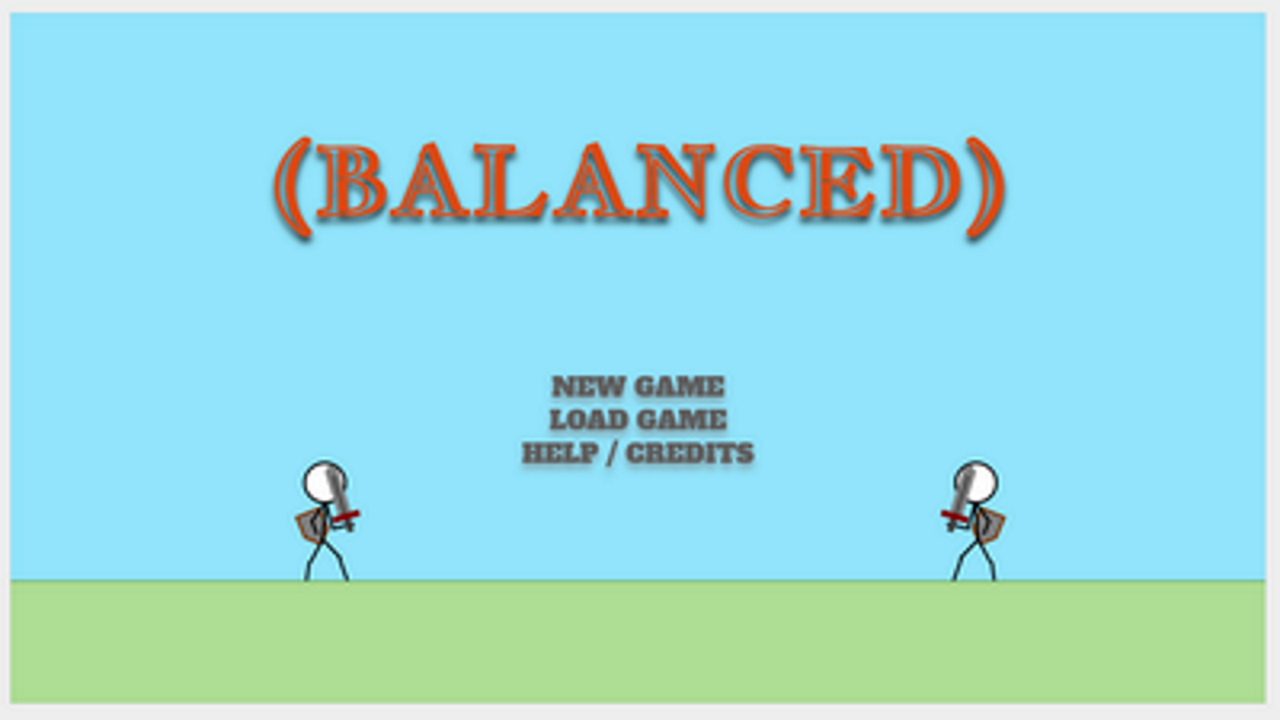
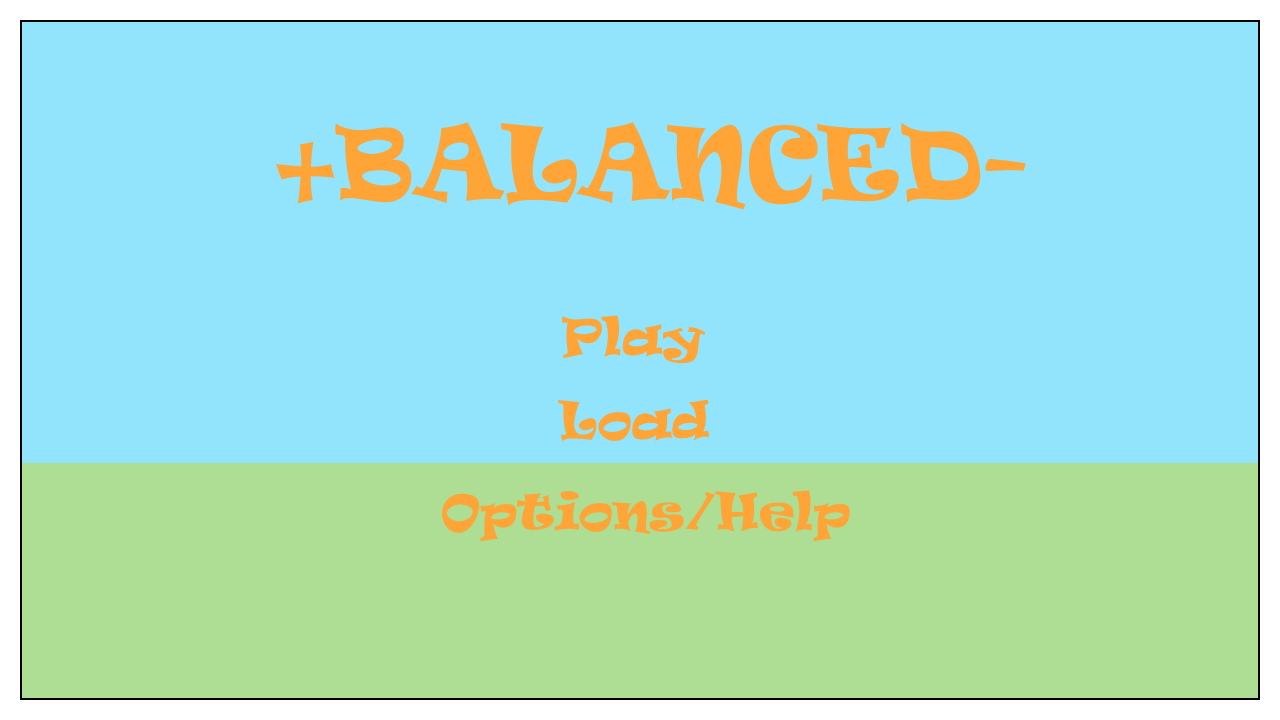
Finished up on some more of the main menu, added the buttons and made them clickable.

Changed region(s): [[0.0, 0.0, 1.0, 0.9778], [0.1875, 0.1528, 0.8125, 0.3361]]

diff --git a/Balanced/Balanced/assets/scripts/gui/MainMenuGraphics.ts b/Balanced/Balanced/assets/scripts/gui/MainMenuGraphics.ts
@@ -3,22 +3,18 @@
 
         private backgroundImage: Phaser.Sprite
 
-        private playButton: Phaser.Sprite
-        private loadButton: Phaser.Sprite
-        private optionsHelpButton: Phaser.Sprite
+        private playButton: Phaser.Button
+        private loadButton: Phaser.Button
+        private optionsHelpButton: Phaser.Button
+        private gsm: States.GameStateManager;
 
         constructor(group: Phaser.Group) {
             super(200, group);
         }
 
         public initialize(gsm: States.GameStateManager): void {
+            this.gsm = gsm;
             this.backgroundImage = gsm.game.add.sprite(0, 0, 'mmBackground');
-
-            this.playButton = gsm.game.add.sprite(556, 313, 'mmPlayButton');
-            this.loadButton = gsm.game.add.sprite(556, 398, 'mmLoadButton');
-            this.optionsHelpButton = gsm.game.add.sprite(436, 484, 'mmOptionsHelpButton');
-
-
 
             this.group.add(this.backgroundImage);
         }
@@ -27,16 +23,19 @@
             return this.backgroundImage;
         }
 
-        public getPlayButton(): Phaser.Sprite {
-            return this.playButton;
+        public getPlayButton(func: any): void {
+            this.playButton = this.gsm.game.add.button(556, 313, 'mmPlayButton', func);
+            //return this.playButton;
         }
 
-        public getLoadButton(): Phaser.Sprite {
-            return this.loadButton;
+        public getLoadButton(func: any): void {
+            this.loadButton = this.gsm.game.add.button(556, 398, 'mmLoadButton', func);
+            //return this.loadButton;
         }
 
-        public getOptionsHelpButton(): Phaser.Sprite {
-            return this.optionsHelpButton;
+        public getOptionsHelpButton(func: any): void {
+            this.optionsHelpButton = this.gsm.game.add.button(436, 484, 'mmOptionsHelpButton', func);
+            //return this.optionsHelpButton;
         }
     }
 }

diff --git a/Balanced/Balanced/assets/scripts/gui/MainMenuGraphics.js b/Balanced/Balanced/assets/scripts/gui/MainMenuGraphics.js
@@ -16,23 +16,24 @@ var GUI;
             return _super.call(this, 200, group) || this;
         }
         MainMenuGraphics.prototype.initialize = function (gsm) {
+            this.gsm = gsm;
             this.backgroundImage = gsm.game.add.sprite(0, 0, 'mmBackground');
-            this.playButton = gsm.game.add.sprite(556, 313, 'mmPlayButton');
-            this.loadButton = gsm.game.add.sprite(556, 398, 'mmLoadButton');
-            this.optionsHelpButton = gsm.game.add.sprite(436, 484, 'mmOptionsHelpButton');
             this.group.add(this.backgroundImage);
         };
         MainMenuGraphics.prototype.getBackgroundImage = function () {
             return this.backgroundImage;
         };
-        MainMenuGraphics.prototype.getPlayButton = function () {
-            return this.playButton;
+        MainMenuGraphics.prototype.getPlayButton = function (func) {
+            this.playButton = this.gsm.game.add.button(556, 313, 'mmPlayButton', func);
+            //return this.playButton;
         };
-        MainMenuGraphics.prototype.getLoadButton = function () {
-            return this.loadButton;
+        MainMenuGraphics.prototype.getLoadButton = function (func) {
+            this.loadButton = this.gsm.game.add.button(556, 398, 'mmLoadButton', func);
+            //return this.loadButton;
         };
-        MainMenuGraphics.prototype.getOptionsHelpButton = function () {
-            return this.optionsHelpButton;
+        MainMenuGraphics.prototype.getOptionsHelpButton = function (func) {
+            this.optionsHelpButton = this.gsm.game.add.button(436, 484, 'mmOptionsHelpButton', func);
+            //return this.optionsHelpButton;
         };
         return MainMenuGraphics;
     }(GUI.GameObject));

diff --git a/Balanced/Balanced/assets/scripts/Boot.js b/Balanced/Balanced/assets/scripts/Boot.js
@@ -13,13 +13,14 @@ var BalancedGame = (function () {
         //center game
         this.game.scale.pageAlignHorizontally = true;
         this.game.scale.pageAlignVertically = true;
+        this.game.scale.refresh();
         var rem = new UTIL.ResourceManager();
         //PUT ALL RESOURCES YOU NEED LOADED DOWN HERE
         rem.addResource(new UTIL.Resource('logo2', 'assets/res/phaser2.jpg', UTIL.TESTLOGO_ID), true, function (e) {
             this.game.load.image(e.key, e.assetUrl);
         }, this);
         // MAIN MENU RESOURCES
-        rem.addResource(new UTIL.Resource('mmBackground', 'assets/res/mmBackground_w.o_buttons.jpg', UTIL.MM_BACKGROUND_ID), true, function (e) {
+        rem.addResource(new UTIL.Resource('mmBackground', 'assets/res/mmBackground.png', UTIL.MM_BACKGROUND_ID), true, function (e) {
             this.game.load.image(e.key, e.assetUrl);
         }, this);
         // play button
@@ -37,7 +38,6 @@ var BalancedGame = (function () {
         // END MAIN MENU
     };
     BalancedGame.prototype.create = function () {
-        this.game.scale.refresh();
         this.gsm = new States.GameStateManager(this.game);
         // START STATES
         States.TEST_STATE = new States.TestState(this.gsm);

diff --git a/Balanced/Balanced/assets/scripts/States/MainMenuState.ts b/Balanced/Balanced/assets/scripts/States/MainMenuState.ts
@@ -23,13 +23,30 @@
         public init(): void {
             var group = this.gsm.game.add.group();
             this.mainMenu = new GUI.MainMenuGraphics(group);
+
             this.gsm.getGUIM().addGroup(this.mainMenu);
         }
 
         public startup(): boolean {
             console.log("Main Menu Started.");
 
-                   
+            // THIS WORKS
+            
+            this.mainMenu.getPlayButton(function () {
+                console.log('play button was pressed');
+            });
+
+            this.mainMenu.getLoadButton(function () {
+                console.log('load button was pressed');
+            });
+
+            this.mainMenu.getOptionsHelpButton(function () {
+                console.log('options/help button was pressed');
+            });
+
+            // THIS DOES NOT WORK
+            //this.mainMenu.getPlayButton(this.playButtonPressed());
+
             return true;
         }
 
@@ -41,7 +58,7 @@
         public getType(): any {
             return this;
         }
-
+              
         private playButtonPressed(): any {
             console.log('play button was pressed');
         }

diff --git a/Balanced/Balanced/assets/scripts/Boot.ts b/Balanced/Balanced/assets/scripts/Boot.ts
@@ -19,7 +19,8 @@ class BalancedGame {
         //center game
         this.game.scale.pageAlignHorizontally = true;
         this.game.scale.pageAlignVertically = true;
-       
+        this.game.scale.refresh();
+
         var rem = new UTIL.ResourceManager();
 
         //PUT ALL RESOURCES YOU NEED LOADED DOWN HERE
@@ -28,7 +29,7 @@ class BalancedGame {
         }, this);
 
         // MAIN MENU RESOURCES
-        rem.addResource(new UTIL.Resource('mmBackground', 'assets/res/mmBackground_w.o_buttons.jpg', UTIL.MM_BACKGROUND_ID), true, function (e) {
+        rem.addResource(new UTIL.Resource('mmBackground', 'assets/res/mmBackground.png', UTIL.MM_BACKGROUND_ID), true, function (e) {
             this.game.load.image(e.key, e.assetUrl);
         }, this);
 
@@ -50,9 +51,7 @@ class BalancedGame {
         
     }
 
-    create() {
-        this.game.scale.refresh();
-
+    create() {        
         this.gsm = new States.GameStateManager(this.game);
         // START STATES
         States.TEST_STATE = new States.TestState(this.gsm);

diff --git a/Balanced/Balanced/assets/scripts/States/MainMenuState.js b/Balanced/Balanced/assets/scripts/States/MainMenuState.js
@@ -29,6 +29,18 @@ var States;
         };
         MainMenuState.prototype.startup = function () {
             console.log("Main Menu Started.");
+            // THIS WORKS
+            this.mainMenu.getPlayButton(function () {
+                console.log('play button was pressed');
+            });
+            this.mainMenu.getLoadButton(function () {
+                console.log('load button was pressed');
+            });
+            this.mainMenu.getOptionsHelpButton(function () {
+                console.log('options/help button was pressed');
+            });
+            // THIS DOES NOT WORK
+            //this.mainMenu.getPlayButton(this.playButtonPressed());
             return true;
         };
         MainMenuState.prototype.end = function () {

diff --git a/Balanced/Balanced/assets/scripts/util/ResourceList.js b/Balanced/Balanced/assets/scripts/util/ResourceList.js
@@ -4,6 +4,7 @@ UTIL.TESTLOGO_ID = 0;
 //FRANCOIS START AT 100
 //EMERSON START AT 200
 UTIL.MM_BACKGROUND_ID = 200;
-UTIL.MM_LOADBUTTON_ID = 201;
-UTIL.MM_OPTIONSHELPBUTTON_ID = 202;
+UTIL.MM_PLAYBUTTON_ID = 201;
+UTIL.MM_LOADBUTTON_ID = 202;
+UTIL.MM_OPTIONSHELPBUTTON_ID = 203;
 //# sourceMappingURL=ResourceList.js.map

diff --git a/Balanced/Balanced/assets/scripts/util/ResourceList.ts b/Balanced/Balanced/assets/scripts/util/ResourceList.ts
@@ -26,5 +26,6 @@ UTIL.TESTLOGO_ID = 0;
 
 //EMERSON START AT 200
 UTIL.MM_BACKGROUND_ID = 200;
-UTIL.MM_LOADBUTTON_ID = 201;
-UTIL.MM_OPTIONSHELPBUTTON_ID = 202;
+UTIL.MM_PLAYBUTTON_ID = 201;
+UTIL.MM_LOADBUTTON_ID = 202;
+UTIL.MM_OPTIONSHELPBUTTON_ID = 203;

diff --git a/Balanced/Balanced/assets/res/app.css b/Balanced/Balanced/assets/res/app.css
@@ -1,7 +1,13 @@
-body {
+body, html {
     font-family: 'Segoe UI', sans-serif;
+    overflow-x : hidden;
+    overflow-y: hidden;
 }
 
 span {
     font-style: italic;
+}
+
+div {
+    height:100vh
 }
